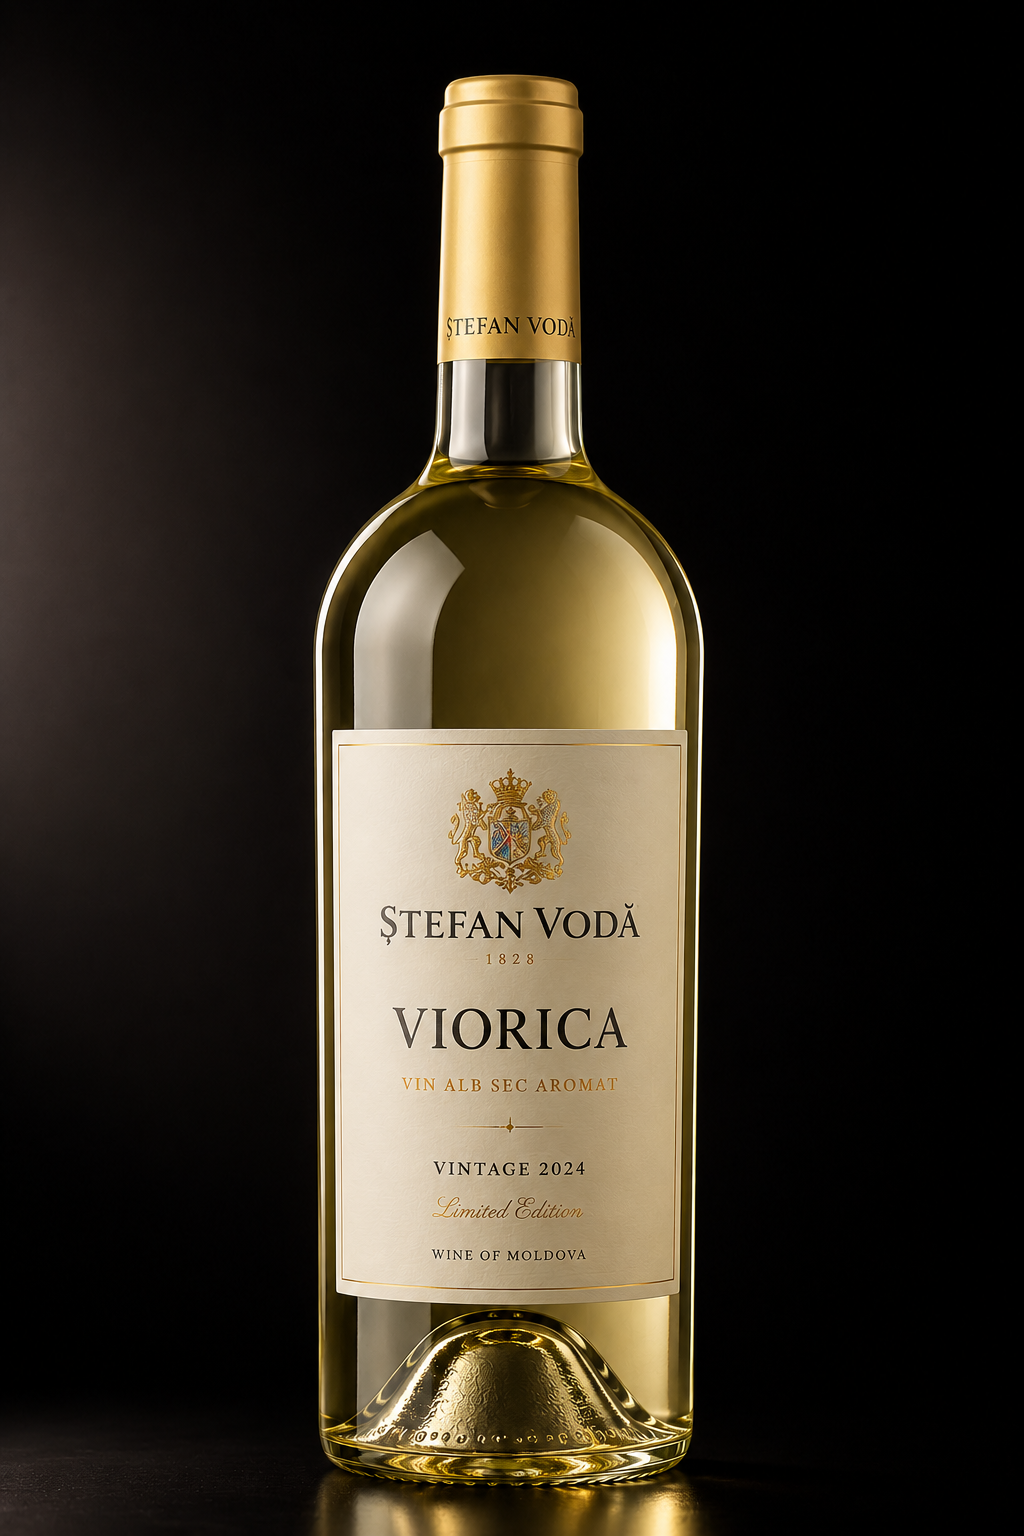
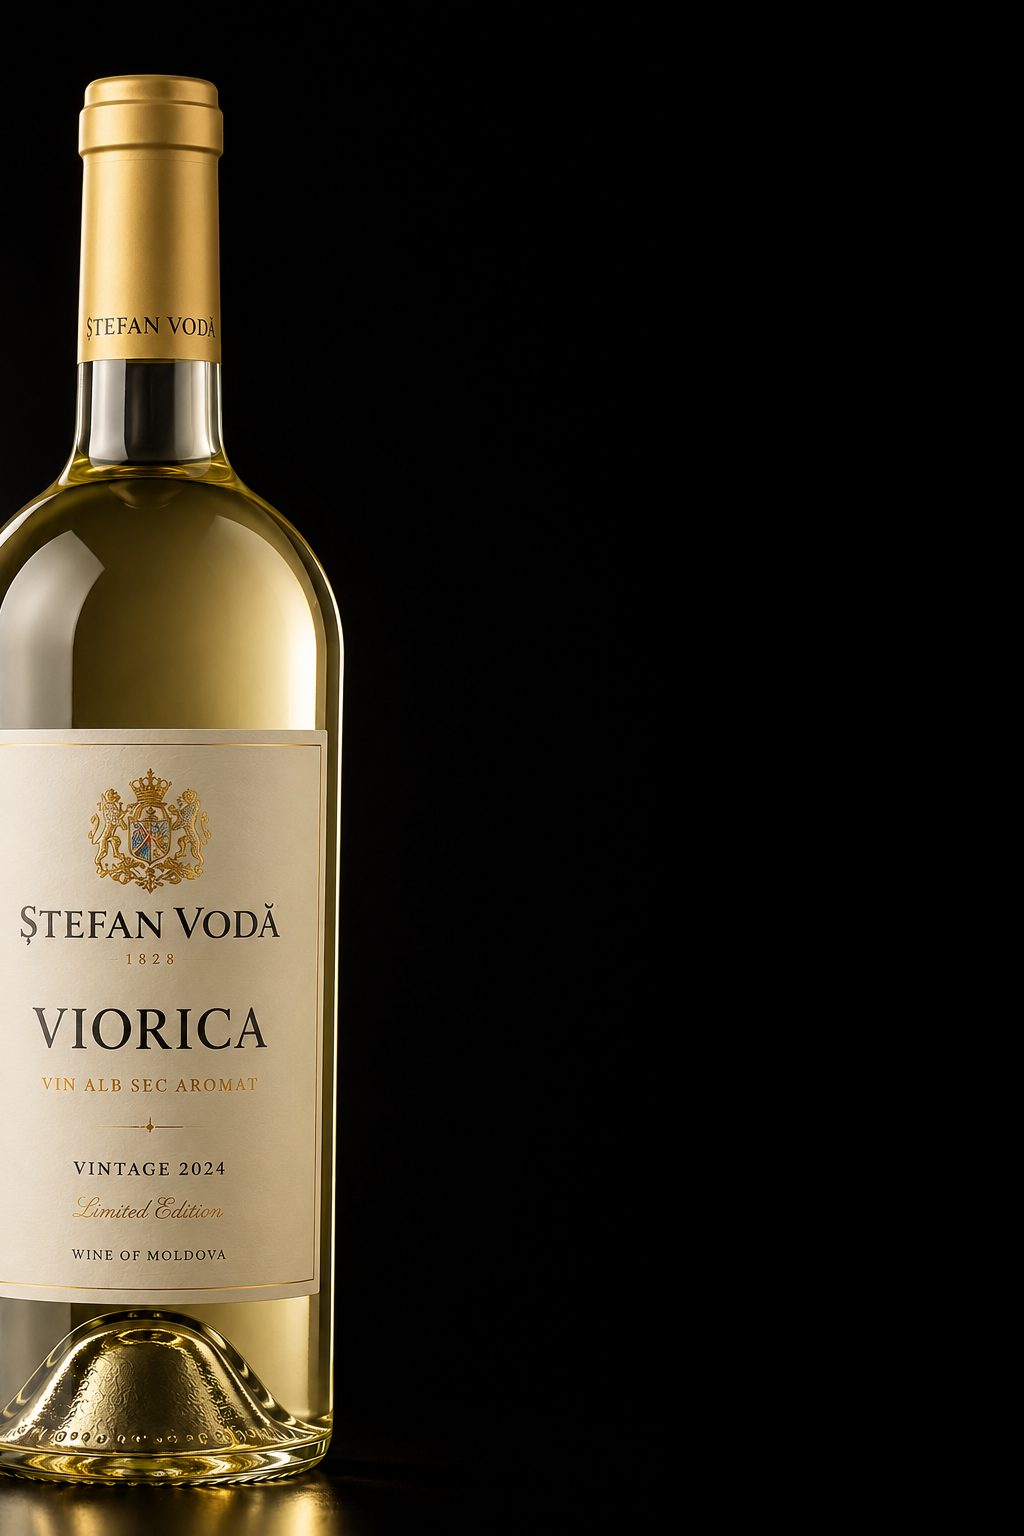
Fix rosé/white bottle horizontal position — align to match red's crop exactly
Root cause of the visible misalignment (white nearly invisible, cut off
on the right edge; rosé barely showed a sliver): matching the red/white/
rose *canvas* dimensions (1024x1536) was not sufficient — .vs-bottle's
CSS crop (object-fit:cover / object-position:left center) always shows
the literal leftmost ~42% of whatever image is loaded, regardless of
where the bottle itself sits within that image. Red's bottle happens to
sit within that left window; the rosé/white photos (composed by a
different AI generation) had their bottles positioned well to the
right of it, so the crop mostly showed black background instead of the
bottle.

Verified by reproducing the exact crop the CSS produces
(leftmost 158/376.7 ≈ 42% of the source width, full height) locally
against all three live-deployed images side by side — red's reproduced
crop showed a clean bottle; white and rosé showed almost nothing.
Measured the required horizontal shift and translated both source
images left (white: -360px, rosé: -330px) onto a black canvas of the
same size, re-verified the reproduced crop now matches red's framing
closely, then replaced the deployed files.

Bumped cache-bust to ?v=4.

41/55 tests pass; 14 pre-existing failures unrelated.

diff --git a/src/visual/visualAssetRegistry.js b/src/visual/visualAssetRegistry.js
@@ -17,7 +17,7 @@ const ASSET_SETS = Object.freeze({
     // illustrating. Replaced with purpose-generated photos matching the red
     // bottle's studio-shot style (a hand-drawn SVG placeholder briefly
     // stood in here in between).
-    // ?v=3 cache-busts: the static route in server.js sets
+    // ?v=4 cache-busts: the static route in server.js sets
     // cache-control: public, max-age=3600 on these files, and this exact
     // URL served three different images within the same hour while this
     // asset was being iterated on — a browser (or intermediate cache) that
@@ -26,12 +26,12 @@ const ASSET_SETS = Object.freeze({
     // these specific files are replaced again.
     'asset-codru-rose': Object.freeze({
         type: 'static-image',
-        bottleUrl: '/visual-assets/bottle-codru-rose.png?v=3',
+        bottleUrl: '/visual-assets/bottle-codru-rose.png?v=4',
         fallbackUrl: '/visual-assets/bottle-fallback.svg',
     }),
     'asset-stefan-viorica': Object.freeze({
         type: 'static-image',
-        bottleUrl: '/visual-assets/bottle-stefan-viorica.png?v=3',
+        bottleUrl: '/visual-assets/bottle-stefan-viorica.png?v=4',
         fallbackUrl: '/visual-assets/bottle-fallback.svg',
     }),
 });
